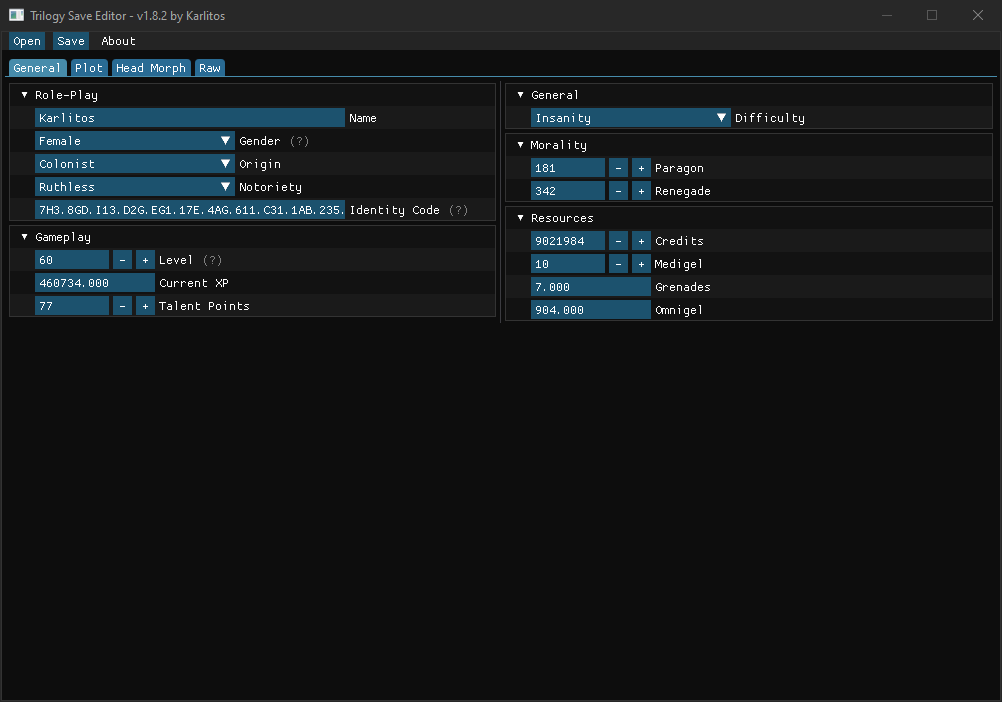
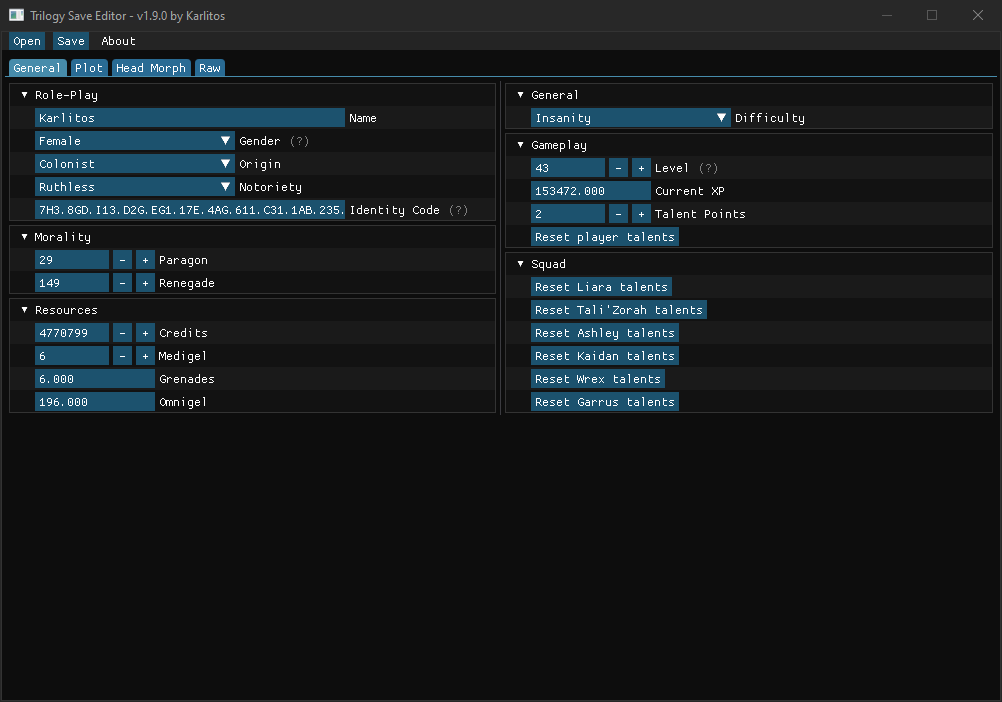
ME1LE: Added player and squad talent reset

Changed region(s): [[0.5259, 0.2692, 0.7425, 0.5983], [0.0309, 0.359, 0.2475, 0.5983], [0.0309, 0.3291, 0.0619, 0.359]]

diff --git a/src/gui/mass_effect_1.rs b/src/gui/mass_effect_1.rs
@@ -12,7 +12,7 @@ use crate::save_data::{
         player::{Name, Player},
         Me1SaveGame,
     },
-    mass_effect_1_leg::{self, Me1LegSaveData},
+    mass_effect_1_leg::{self, player::ComplexTalent, squad::Henchman, Me1LegSaveData},
     shared::{
         player::{Notoriety, Origin},
         plot::{Me1PlotTable, PlotCategory},
@@ -69,7 +69,7 @@ impl<'ui> Gui<'ui> {
 
     fn draw_me1_leg_general(&self, save_game: &mut Me1LegSaveData) -> Option<()> {
         let ui = self.ui;
-        let Me1LegSaveData { plot, player, difficulty, .. } = save_game;
+        let Me1LegSaveData { plot, player, difficulty, squad, .. } = save_game;
         let mass_effect_1_leg::player::Player {
             is_female,
             level,
@@ -83,6 +83,7 @@ impl<'ui> Gui<'ui> {
             grenades,
             omnigel,
             face_code,
+            complex_talents,
             ..
         } = player;
 
@@ -165,37 +166,10 @@ impl<'ui> Gui<'ui> {
                 self.table_next_row();
                 face_code.draw_raw_ui(self, "Identity Code");
                 ui.same_line();
-                self.draw_help_marker("If you change this you can display whatever you want in the menus\nin place of your `Identity Code`, which is pretty cool !");
-            }
-        }
-
-        // Gameplay
-        if let Some(_t) = self.begin_table(im_str!("gameplay-table"), 1) {
-            self.table_next_row();
-            self.set_next_item_open(true);
-            if let Some(_t) = self.push_tree_node("Gameplay") {
-                self.table_next_row();
-                level.draw_raw_ui(self, "Level");
-                ui.same_line();
-                self.draw_help_marker("Classic mode (1 - 60)");
-
-                self.table_next_row();
-                current_xp.draw_raw_ui(self, "Current XP");
-                self.table_next_row();
-                talent_points.draw_raw_ui(self, "Talent Points");
-            }
-        }
-
-        // 2ème colonne
-        self.table_next_column();
-
-        // General
-        if let Some(_t) = self.begin_table(im_str!("general-table"), 1) {
-            self.table_next_row();
-            self.set_next_item_open(true);
-            if let Some(_t) = self.push_tree_node("General") {
-                self.table_next_row();
-                difficulty.draw_raw_ui(self, "Difficulty");
+                self.draw_help_marker(
+                    "If you change this you can display whatever you want in the menus\n\
+                    in place of your `Identity Code`, which is pretty cool !",
+                );
             }
         }
 
@@ -231,7 +205,75 @@ impl<'ui> Gui<'ui> {
                 omnigel.draw_raw_ui(self, "Omnigel");
             }
         }
+
+        // 2ème colonne
+        self.table_next_column();
+
+        // General
+        if let Some(_t) = self.begin_table(im_str!("general-table"), 1) {
+            self.table_next_row();
+            self.set_next_item_open(true);
+            if let Some(_t) = self.push_tree_node("General") {
+                self.table_next_row();
+                difficulty.draw_raw_ui(self, "Difficulty");
+            }
+        }
+
+        // Gameplay
+        if let Some(_t) = self.begin_table(im_str!("gameplay-table"), 1) {
+            self.table_next_row();
+            self.set_next_item_open(true);
+            if let Some(_t) = self.push_tree_node("Gameplay") {
+                self.table_next_row();
+                level.draw_raw_ui(self, "Level");
+                ui.same_line();
+                self.draw_help_marker("Classic mode (1 - 60)");
+
+                self.table_next_row();
+                current_xp.draw_raw_ui(self, "Current XP");
+                self.table_next_row();
+                talent_points.draw_raw_ui(self, "Talent Points");
+                self.table_next_row();
+                self.draw_me1_reset_talents("player", talent_points, complex_talents);
+            }
+        }
+
+        // Squad
+        if let Some(_t) = self.begin_table(im_str!("squad-table"), 1) {
+            self.table_next_row();
+            self.set_next_item_open(true);
+            if let Some(_t) = self.push_tree_node("Squad") {
+                for Henchman { tag, talent_points, complex_talents, .. } in squad {
+                    let character_name = match tag.to_str() {
+                        "hench_asari" => "Liara",
+                        "hench_humanfemale" => "Ashley",
+                        "hench_humanmale" => "Kaidan",
+                        "hench_krogan" => "Wrex",
+                        "hench_quarian" => "Tali'Zorah",
+                        "hench_turian" => "Garrus",
+                        _ => continue,
+                    };
+
+                    self.table_next_row();
+                    self.draw_me1_reset_talents(character_name, talent_points, complex_talents);
+                }
+            }
+        }
+
         Some(())
+    }
+
+    fn draw_me1_reset_talents(
+        &self, character_name: &str, talent_points: &mut i32, complex_talents: &mut [ComplexTalent],
+    ) {
+        let ui = self.ui;
+
+        if ui.button(&im_str!("Reset {} talents", character_name)) {
+            for talent in complex_talents {
+                *talent_points += talent.ranks;
+                talent.ranks = 0;
+            }
+        }
     }
 
     pub fn draw_mass_effect_1(

diff --git a/src/save_data/mass_effect_1_leg/player.rs b/src/save_data/mass_effect_1_leg/player.rs
@@ -26,7 +26,7 @@ pub struct Player {
     unknown_string: ImguiString,
     pub head_morph: HasHeadMorph,
     simple_talents: Vec<SimpleTalent>,
-    complex_talents: Vec<ComplexTalent>,
+    pub complex_talents: Vec<ComplexTalent>,
     inventory: Inventory,
     pub credits: i32,
     pub medigel: i32,
@@ -54,7 +54,7 @@ pub struct SimpleTalent {
 #[derive(Deserialize, Serialize, RawUi, Clone, Default)]
 pub struct ComplexTalent {
     talent_id: i32,
-    ranks: i32,
+    pub ranks: i32,
     max_rank: i32,
     level_offset: i32,
     levels_per_rank: i32,

diff --git a/src/save_data/mass_effect_1_leg/squad.rs b/src/save_data/mass_effect_1_leg/squad.rs
@@ -6,12 +6,12 @@ use super::player::{ComplexTalent, Item, SimpleTalent};
 
 #[derive(Deserialize, Serialize, RawUi, Default, Clone)]
 pub struct Henchman {
-    tag: ImguiString,
+    pub tag: ImguiString,
     simple_talents: Vec<SimpleTalent>,
-    complex_talents: Vec<ComplexTalent>,
+    pub complex_talents: Vec<ComplexTalent>,
     equipped: Vec<Item>,
     quick_slots: Vec<Item>,
-    talent_points: i32,
+    pub talent_points: i32,
     _unknown1: Dummy<4>,
     auto_levelup_template_id: i32,
     localized_last_name: i32,

diff --git a/src/save_data/mass_effect_2/player.rs b/src/save_data/mass_effect_2/player.rs
@@ -36,7 +36,7 @@ pub struct Player {
     pub probes: i32,
     pub current_fuel: f32,
     pub face_code: ImguiString,
-    class_friendly_name: i32,
+    localized_class_name: i32,
 }
 
 #[derive(Deserialize, Serialize, RawUi, Default, Clone)]

diff --git a/src/save_data/mass_effect_1_leg/mod.rs b/src/save_data/mass_effect_1_leg/mod.rs
@@ -197,7 +197,7 @@ pub struct Me1LegSaveData {
     _unknown9: Dummy<4>,
     location: Vector,
     rotation: Rotator,
-    squad: Vec<Henchman>,
+    pub squad: Vec<Henchman>,
     // ---
     _remaining_bytes: List<u8>,
 }

diff --git a/src/save_data/mass_effect_3/player.rs b/src/save_data/mass_effect_3/player.rs
@@ -48,7 +48,7 @@ pub struct Player {
     pub current_fuel: f32,
     pub grenades: i32,
     pub face_code: ImguiString,
-    class_friendly_name: i32,
+    localized_class_name: i32,
     _character_guid: Dummy<16>,
 }
 

diff --git a/CHANGELOG.md b/CHANGELOG.md
@@ -1,4 +1,5 @@
-## Unreleased
+## 1.9.0
+- ME1LE: Added player and squad talent reset
 - Fallback to DirectX 11 if backend panic on startup
 - Added command line options (with the ability to choose the backend), additional help with the --help argument
 - Can now open a save by dropping the file into the window
